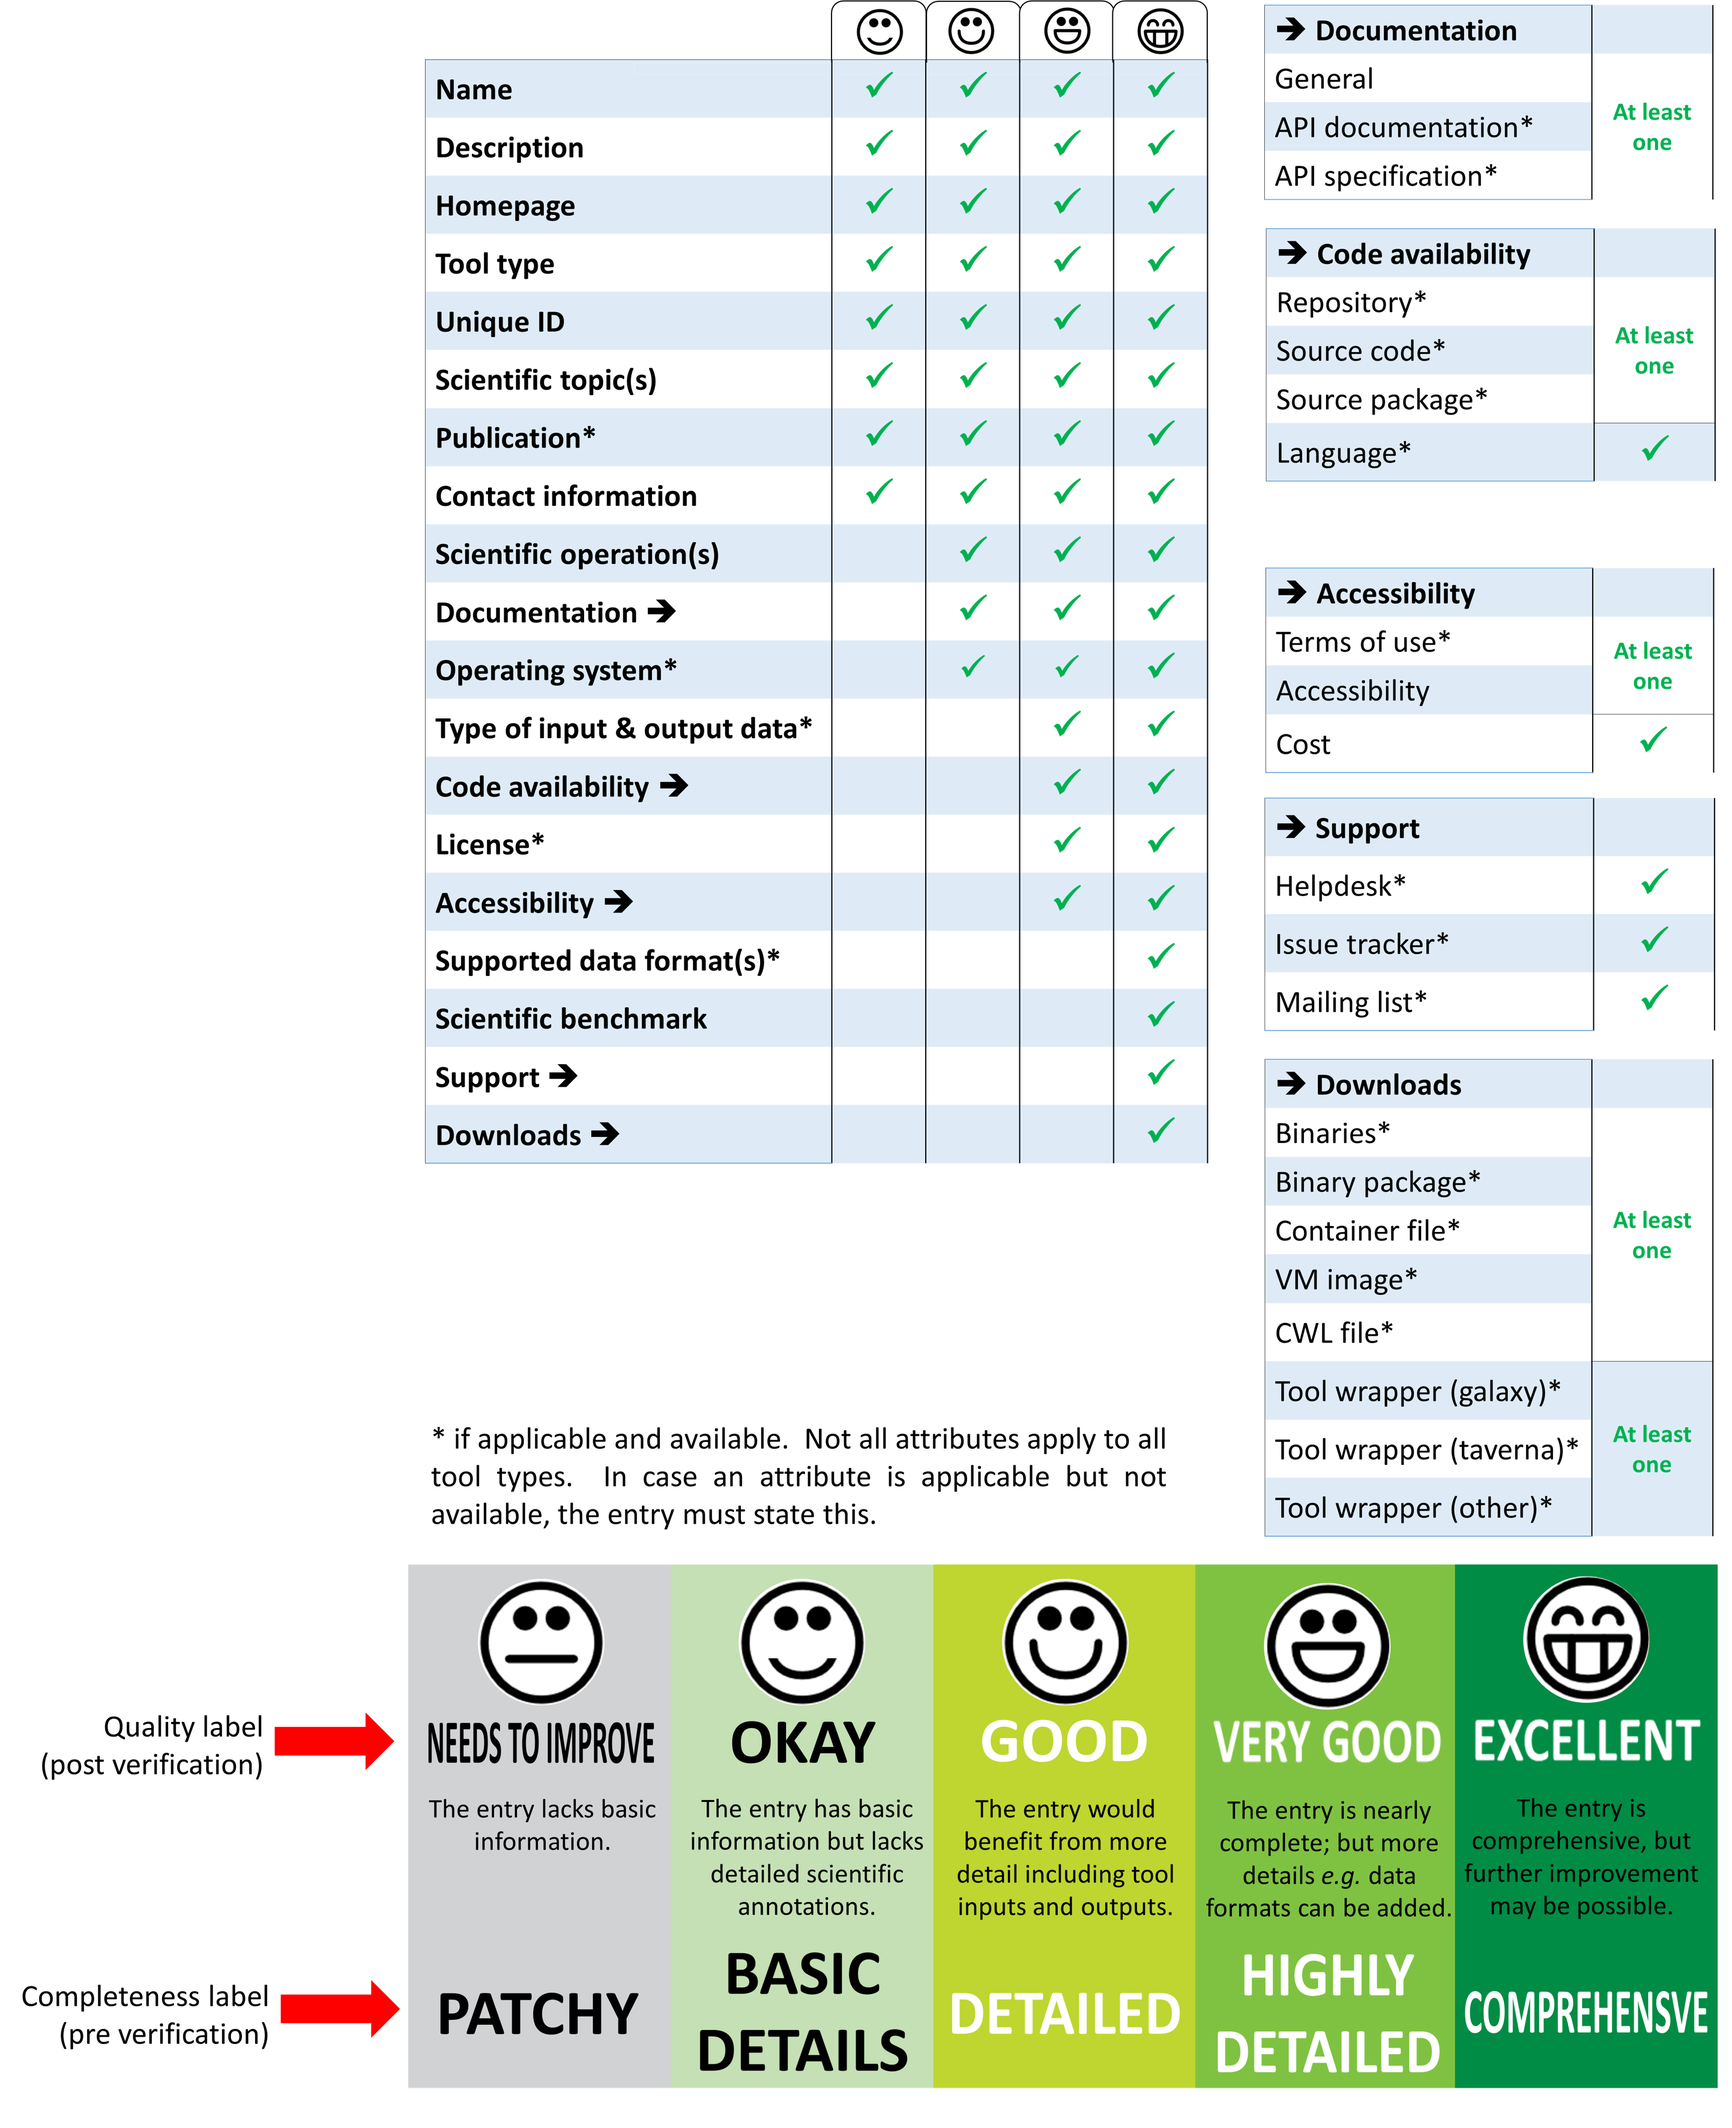
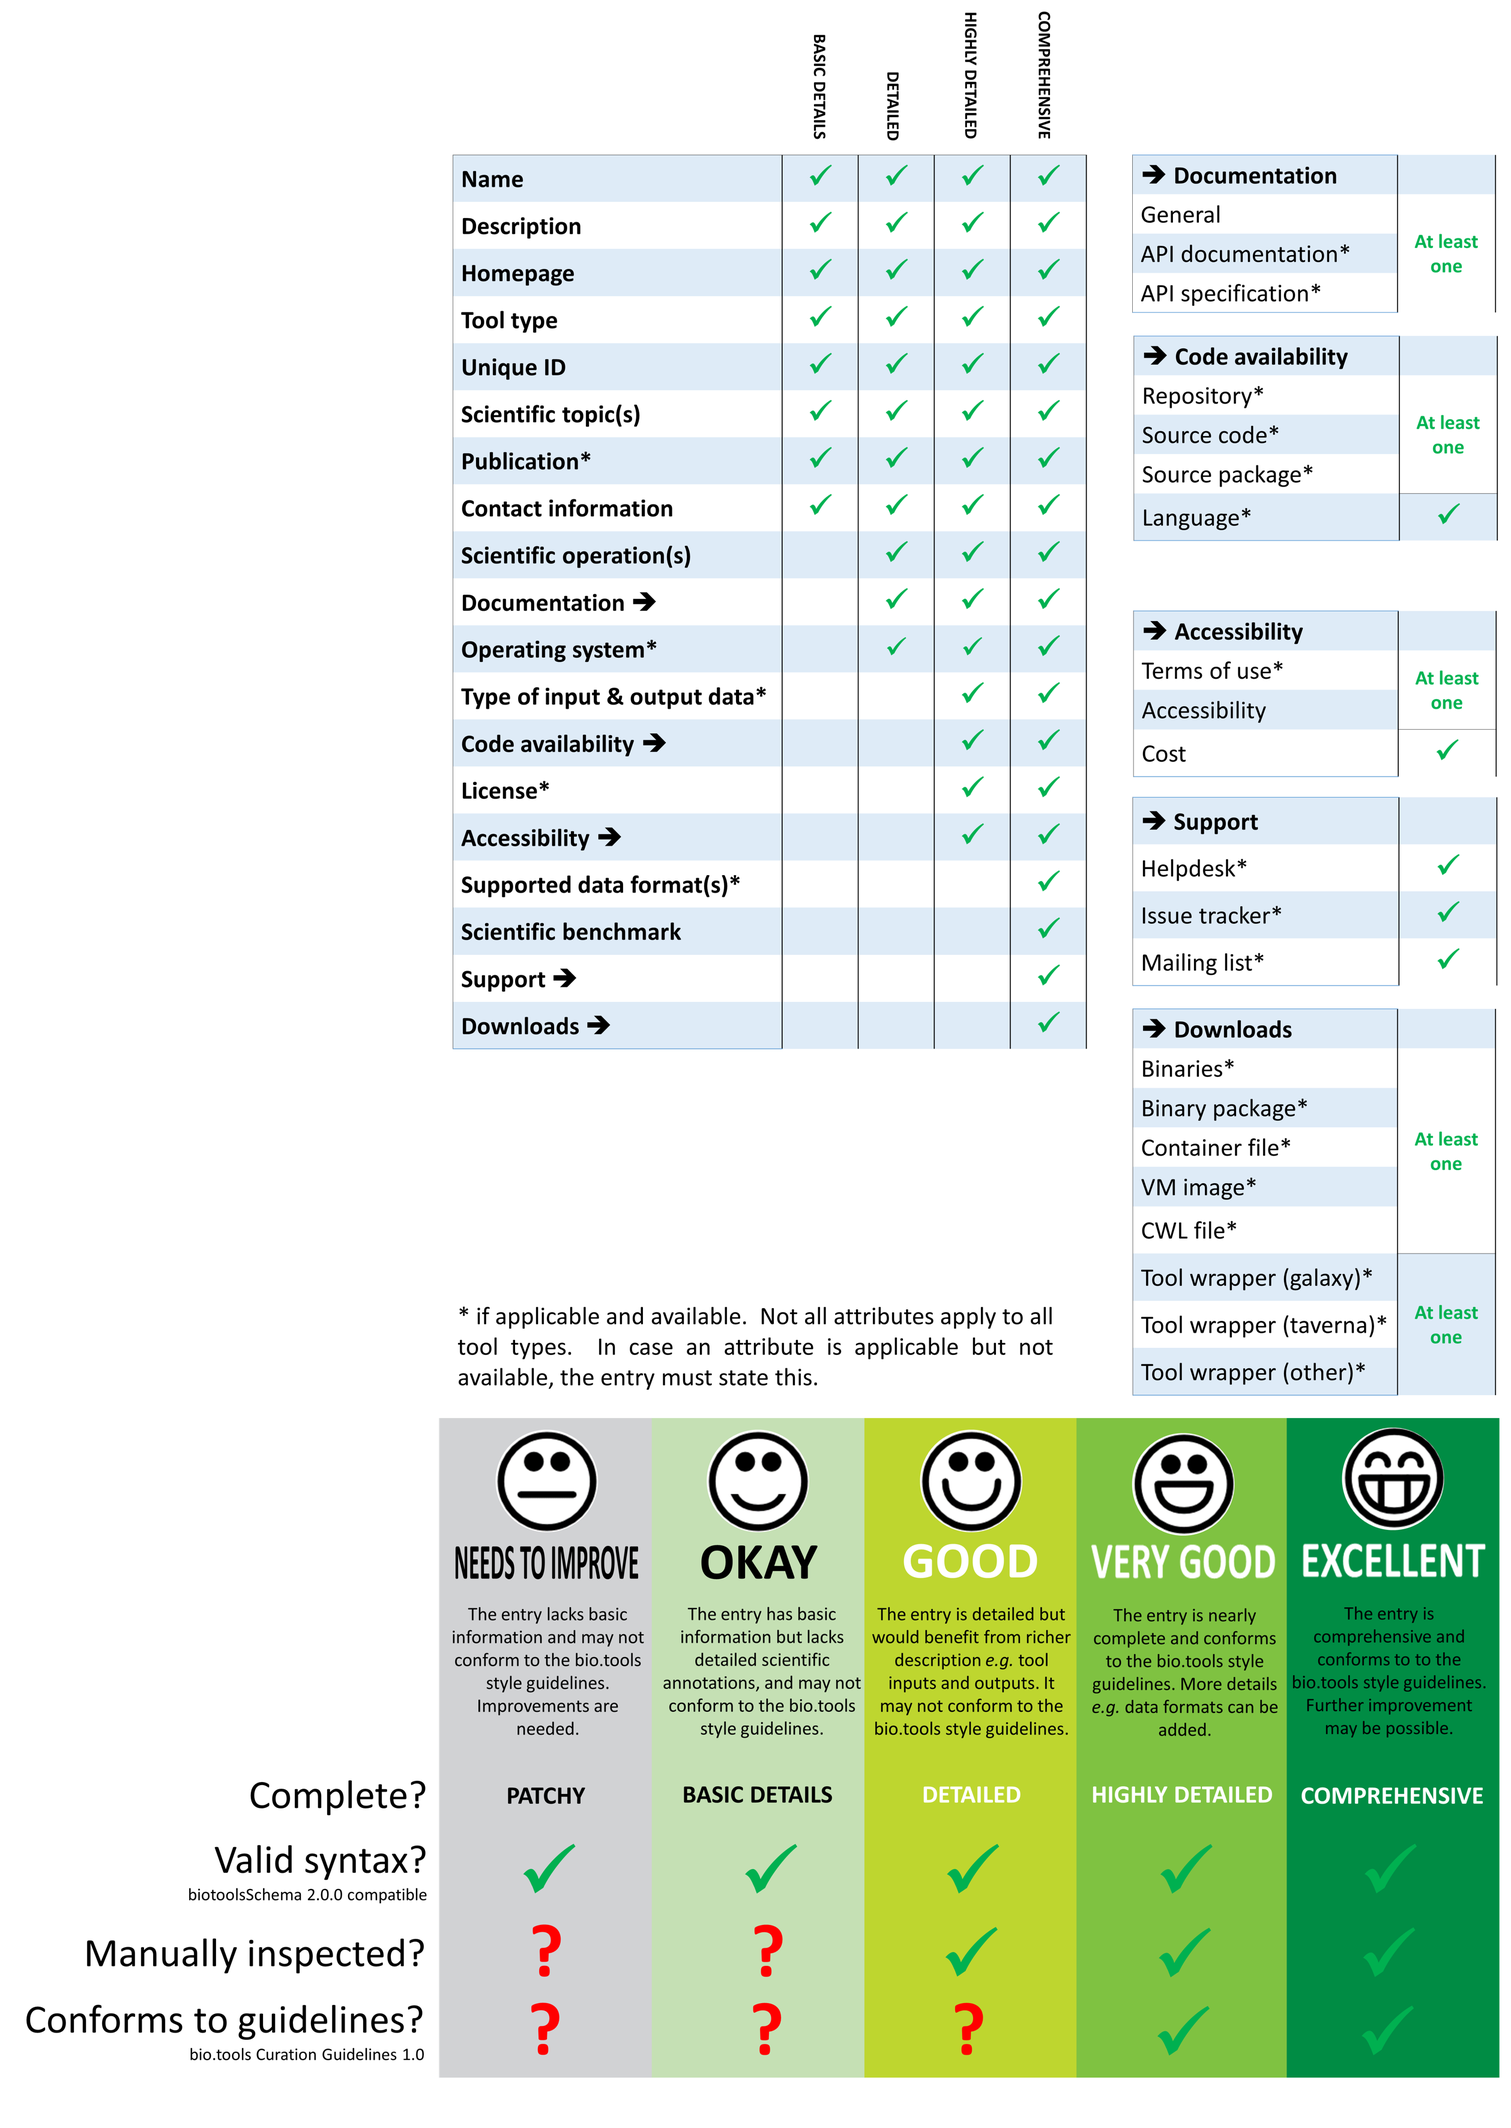
Update with major clarification re labels

diff --git a/information_requirement.rst b/information_requirement.rst
@@ -8,10 +8,16 @@ bio.tools information standard
 
 `biotoolsSchema <https://github.com/bio-tools/biotoolsSchema/>`_ provides the foundation for an *information standard* for the description of tools that is being adopted by https://bio.tools.  The standard has two components:
 
-* a list of tool attributes (see below) that must be specified (or stated as not being available) for an entry to be labelled in a 5 tier rating of annotation completeness and quality.  Some attributes are grouped (see tables on right) for purposes of determining adherance to the standard.
+* a list of tool attributes (see Table below) that must be specified (or stated as not being available) for an entry to be assigned in a 5 tier rating of entry completeness and quality.  Some attributes are grouped (see tables on right) for purposes of determining adherance to the standard.
 * a set of `Curation Guidelines <http://biotools.readthedocs.io/en/latest/curators_guide.html>`_ describing *how* each attribute should be specified, *i.e.* things that go beyond syntactic and semantic constraints defined by `biotoolsSchema <https://github.com/bio-tools/biotoolsSchema/>`_.
 
-Adherence to some of the `Curation Guidelines <http://biotools.readthedocs.io/en/latest/curators_guide.html>`_ are checked by automated QC checks within bio.tools whereas others must be manually verified by bio.tools curators.  Entries in which all attributes pass both the automated and manual checks will be labelled as "Verified" (and stamped with data of verification and last update) and will receive a label of annotation quality (from "NEEDS TO IMPROVE" through to "EXCELLENT").  Unverified entries will not receive a quality label, but will get a label of annotation completeness (from "PATCHY" through to "COMPREHENSIVE".)
+Adherence to some of guidelines is verified by automated QC checks within bio.tools, whereas others must be verified by manual inspection.
+
+The standard provides a basis for labelling of bio.tools entries in various ways.  If and how to use labels is currently `under discussion <https://github.com/bio-tools/biotoolsSchema/issues/77>`_
+* label of *entry completeness* (from "PATCHY" through to "COMPREHENSIVE")
+* label indicating whether an entry had been manually inspected
+* label indicating whether an entry conforms to the guidelines, passing both the automated and manual checks ("Verified" label and stamped with date of verification and last update)
+* label of overall *entry quality* (from "NEEDS TO IMPROVE" through to "EXCELLENT") conflating notions above
 
 .. image:: information_standard.png
 
